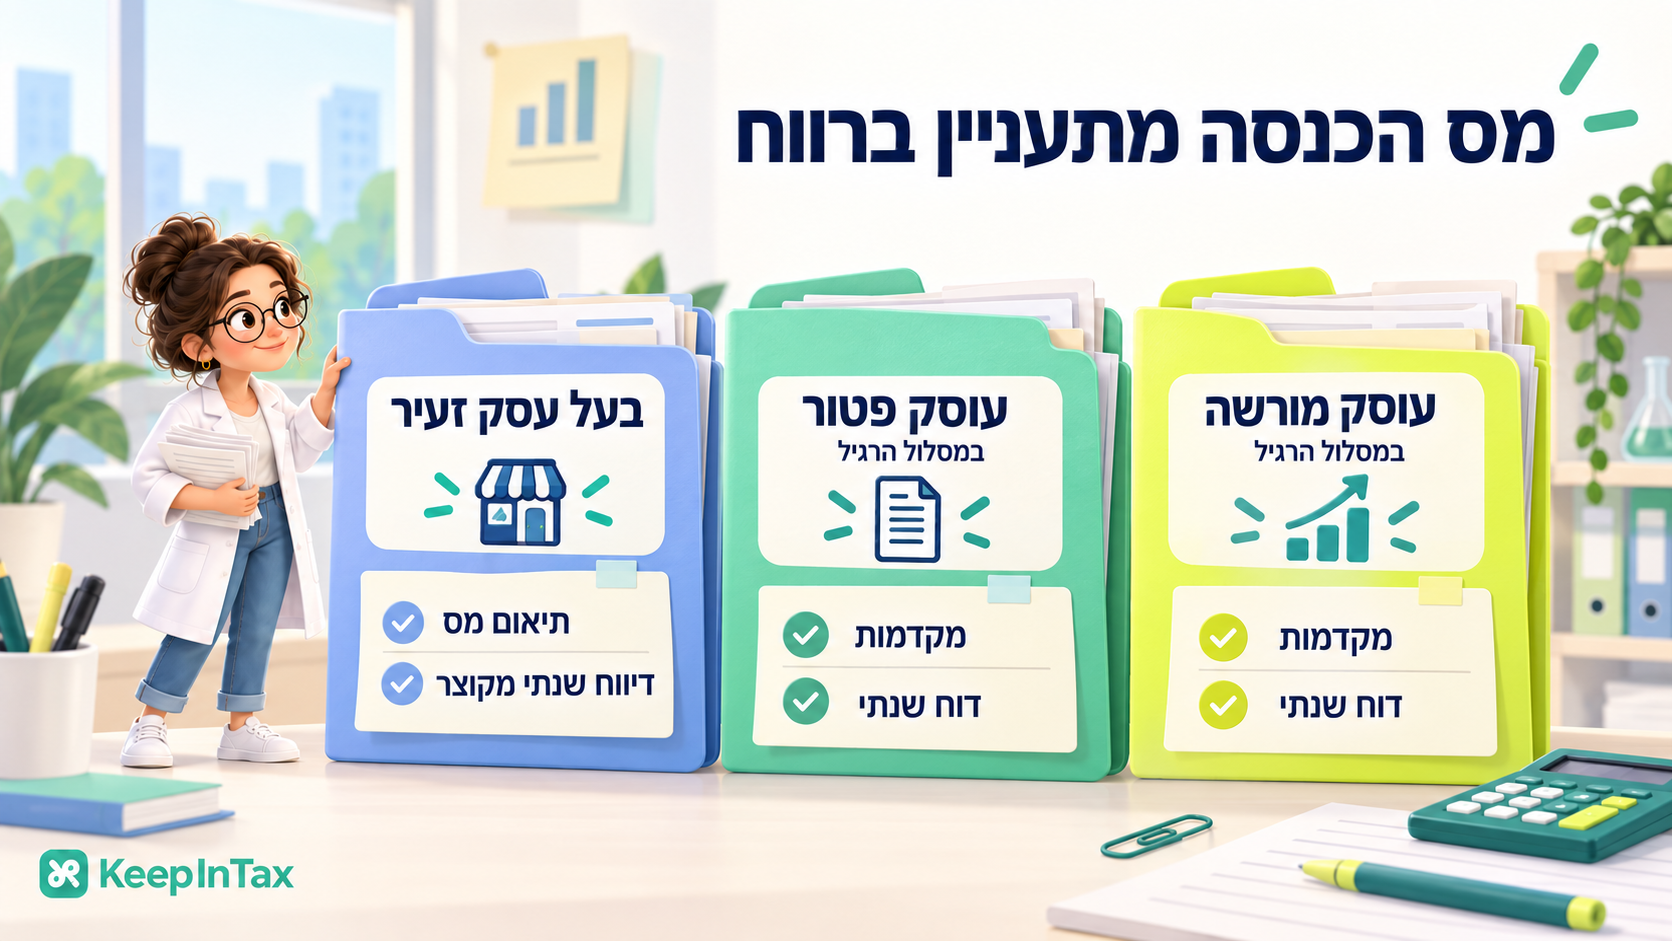
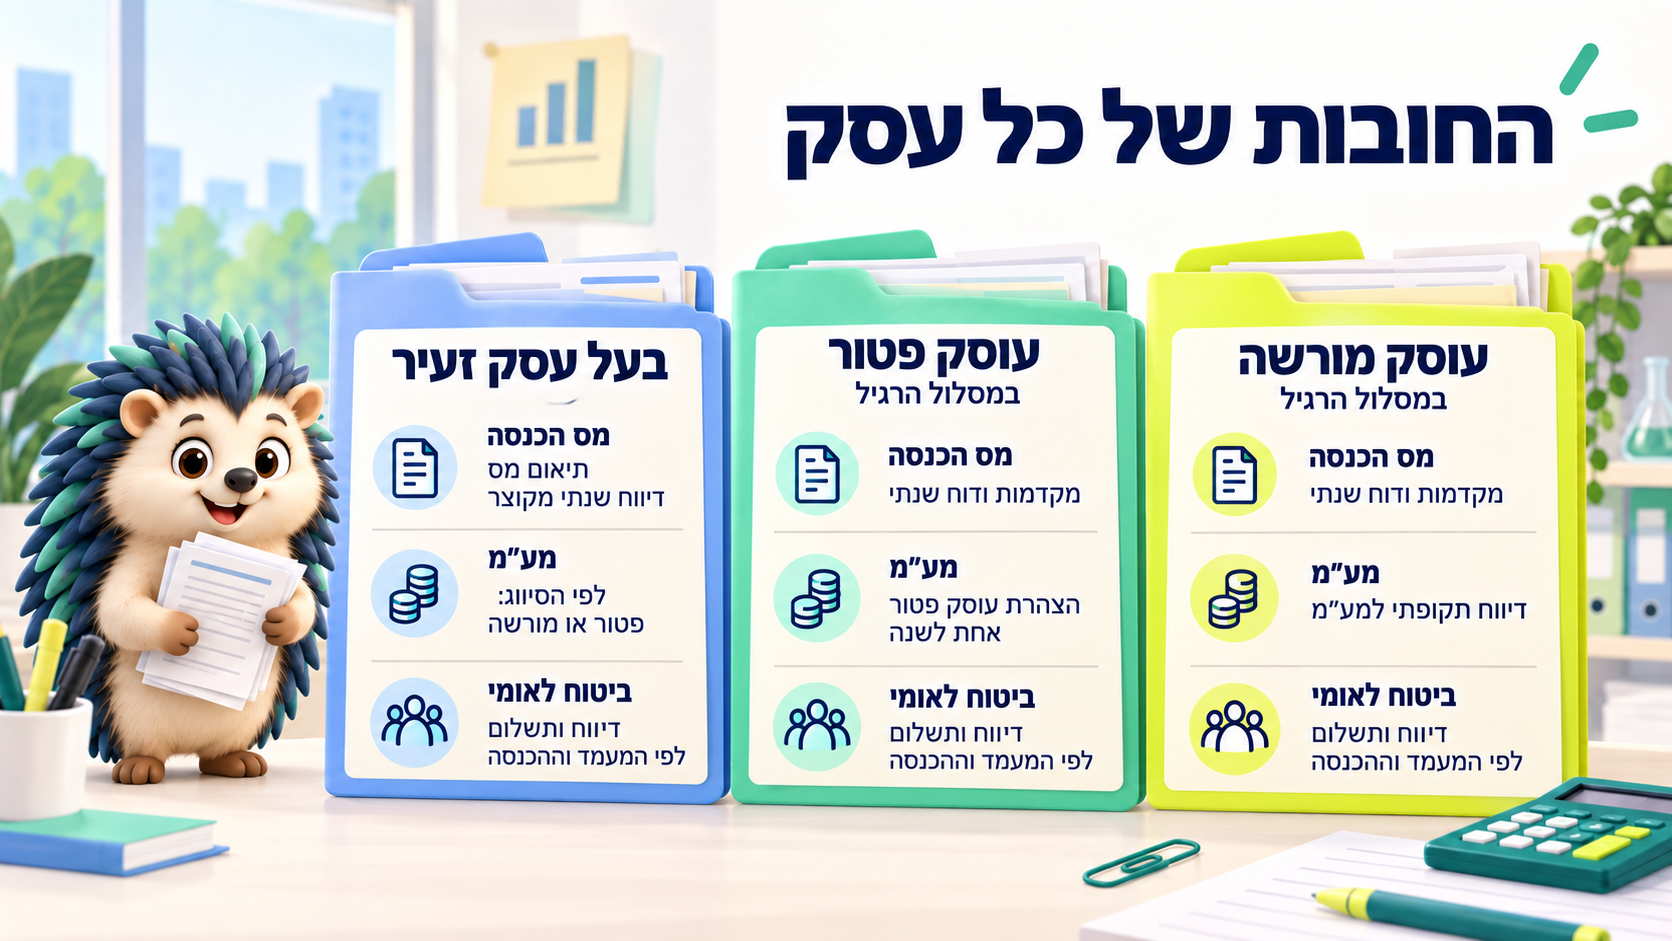
feat(guide): show business obligations with Kipi across authorities

diff --git a/frontend/src/app/pages/admin-panel/self-employed-guide.content.ts b/frontend/src/app/pages/admin-panel/self-employed-guide.content.ts
@@ -90,12 +90,12 @@ export const SELF_EMPLOYED_GUIDE_SLIDES: GuideSlide[] = [
   {
     id: 'income-tax-overview',
     layout: 'income-overview',
-    title: 'מס הכנסה מתעניין ברווח',
-    subtitle: 'אותו מס, שתי דרכי דיווח',
+    title: 'החובות של כל עסק',
+    subtitle: 'מס הכנסה, מע״מ וביטוח לאומי',
     items: [
-      { label: 'בעל עסק זעיר', category: 'המסלול המקוצר', description: 'תיאום מס ודיווח שנתי מקוצר', icon: 'flash-outline' },
-      { label: 'עוסק פטור', category: 'במסלול הרגיל', description: 'מקדמות ודוח שנתי', icon: 'document-text-outline' },
-      { label: 'עוסק מורשה', category: 'במסלול הרגיל', description: 'מקדמות ודוח שנתי', icon: 'document-text-outline' },
+      { label: 'בעל עסק זעיר', category: 'המסלול המקוצר', description: 'מס הכנסה: תיאום מס ודיווח שנתי מקוצר. מע״מ: לפי הסיווג, פטור או מורשה. ביטוח לאומי: דיווח ותשלום לפי המעמד וההכנסה.', icon: 'flash-outline' },
+      { label: 'עוסק פטור', category: 'במסלול הרגיל', description: 'מס הכנסה: מקדמות ודוח שנתי. מע״מ: הצהרת עוסק פטור אחת לשנה. ביטוח לאומי: דיווח ותשלום לפי המעמד וההכנסה.', icon: 'document-text-outline' },
+      { label: 'עוסק מורשה', category: 'במסלול הרגיל', description: 'מס הכנסה: מקדמות ודוח שנתי. מע״מ: דיווח תקופתי למע״מ. ביטוח לאומי: דיווח ותשלום לפי המעמד וההכנסה.', icon: 'document-text-outline' },
     ],
     takeaway: 'המעמד במע״מ לא קובע לבדו איך מדווחים למס הכנסה.',
     sources: [{ label: 'הנחיות רשות המסים', url: figures.sources.microBusinessGuidance }],

diff --git a/frontend/src/app/pages/admin-panel/self-employed-guide.component.spec.ts b/frontend/src/app/pages/admin-panel/self-employed-guide.component.spec.ts
@@ -5,6 +5,8 @@ describe('SelfEmployedGuideComponent', () => {
   let component: SelfEmployedGuideComponent;
   beforeEach(() => component = new SelfEmployedGuideComponent());
   it('orders the main sequence and stops at the authorities hub', () => {
+    expect(component.slides[4].title).toBe('החובות של כל עסק');
+    expect(component.slides[4].items?.every(item => item.description.includes('ביטוח לאומי'))).toBeTrue();
     expect(component.slides[2].title).toBe('כשאתם שכירים, המעסיק מטפל בהכל');
     expect(component.slides.map(s => s.id)).toEqual(['cover', 'basic-concepts', 'employee-payroll', 'business-types', 'income-tax-overview', 'status-comparison', 'micro-blockers', 'tax-authorities']);
     component.previousSlide();

diff --git a/frontend/src/app/pages/admin-panel/self-employed-guide.component.html b/frontend/src/app/pages/admin-panel/self-employed-guide.component.html
@@ -53,7 +53,8 @@
         }
 
         @case ('income-overview') {
-          <img class="approved-slide-art" src="/assets/self-employed-guide/income-overview-approved.png" alt="הדרכים לדיווח למס הכנסה לפי סוג העסק" />
+          <img class="slide-logo" src="/assets/login_logo.svg" alt="KeepInTax" />
+          <img class="approved-slide-art" src="/assets/self-employed-guide/income-overview-approved.png" alt="החובות של כל עסק: מס הכנסה; הצהרה שנתית לעוסק פטור או דיווח תקופתי למע״מ לעוסק מורשה; ביטוח לאומי לפי המעמד וההכנסה. בעל עסק זעיר מדווח למע״מ לפי סיווגו." />
         }
 
         @case ('status-comparison') {

diff --git a/docs/marketing/business-obligations-slide.md b/docs/marketing/business-obligations-slide.md
@@ -1,0 +1,30 @@
+# Business obligations overview — 2026-09-22
+
+Image source: `exec-ec6e3b74-94bb-4f88-94a9-02dc4c5ca8b3.png`, copied to
+`frontend/src/assets/self-employed-guide/income-overview-approved.png`.
+The existing KeepInTax SVG is rendered at the bottom left to preserve branding.
+
+Main slide 5, stable ID `income-tax-overview`; title: `החובות של כל עסק`.
+User requested replacing the scientist with Kipi and adding VAT and NI duties.
+Keep three folders: micro business, exempt dealer (regular income-tax route),
+authorized dealer (regular income-tax route). No company column.
+
+- Micro: tax coordination and abbreviated annual report; VAT by exempt/authorized status.
+- Exempt: income-tax advances/annual report; annual exempt VAT declaration.
+- Authorized: income-tax advances/annual report; periodic VAT reporting.
+- All: `ביטוח לאומי — דיווח ותשלום לפי המעמד וההכנסה`.
+
+This is an introductory overview, not an exhaustive list of every duty. NI is
+not universally payable in identical circumstances; retain the status/income
+qualification. Advances depend on the assessment; micro is not a VAT status.
+
+Official sources checked:
+- https://www.gov.il/he/service/report-and-payment-for-micro-business-owner
+- https://www.gov.il/he/service/reporting-or-payment-of-vat-reports
+- https://www.gov.il/BlobFolder/generalpage/income-tax-guide-knowyourright/he/Guides_IncomeTax_da-2025.pdf (annual exempt declaration)
+- https://www.btl.gov.il/Insurance/National%20Insurance/type_list/Self_Employed/Pages/howtoregister.aspx
+- https://www.btl.gov.il/Insurance/National%20Insurance/type_list/Self_Employed/Pages/howtopay.aspx
+
+Built-in image edit prompt: preserve the office and colored folder design,
+replace scientist with approved Kipi, expand folder checklists into three
+authority sections with the wording above. No calculator or tax parameter changes.

diff --git a/frontend/src/app/pages/admin-panel/AGENTS.md b/frontend/src/app/pages/admin-panel/AGENTS.md
@@ -18,6 +18,8 @@ Internal admin console (tabbed) for staff to manage clients dashboard, the unifi
 
 ## Main flows
 
+- Main slide 5 (`income-tax-overview`) is `החובות של כל עסק`, with Kipi and obligations grouped by authority. Exempt VAT declaration is annual, authorized VAT reporting periodic, micro VAT obligations follow its VAT classification; NI reporting/payment depends on status and income. Evidence and artwork provenance: `docs/marketing/business-obligations-slide.md`.
+
 - Guide navigation is eight main slides (cover, glossary, employee, business types, income overview, status comparison, micro blockers, authorities) plus isolated Income Tax (8), VAT (2), and NI (3) chapters. Counters/progress are chapter-local. Previous is disabled on the first slide; Next on the final chapter slide and the explicit return control return to main slide 8. Escape outside fullscreen returns from a chapter. Simulators stay mounted. Earlier linear-navigation descriptions below are superseded by this flow.
 
 - Combined-income heading is `שכיר וגם עצמאי? בסוף שנה הכל נפגש`; approved text-only image edit `exec-075936c2-4826-4c7d-84b0-c711225b1850.png` preserves the profit-only conveyor.
